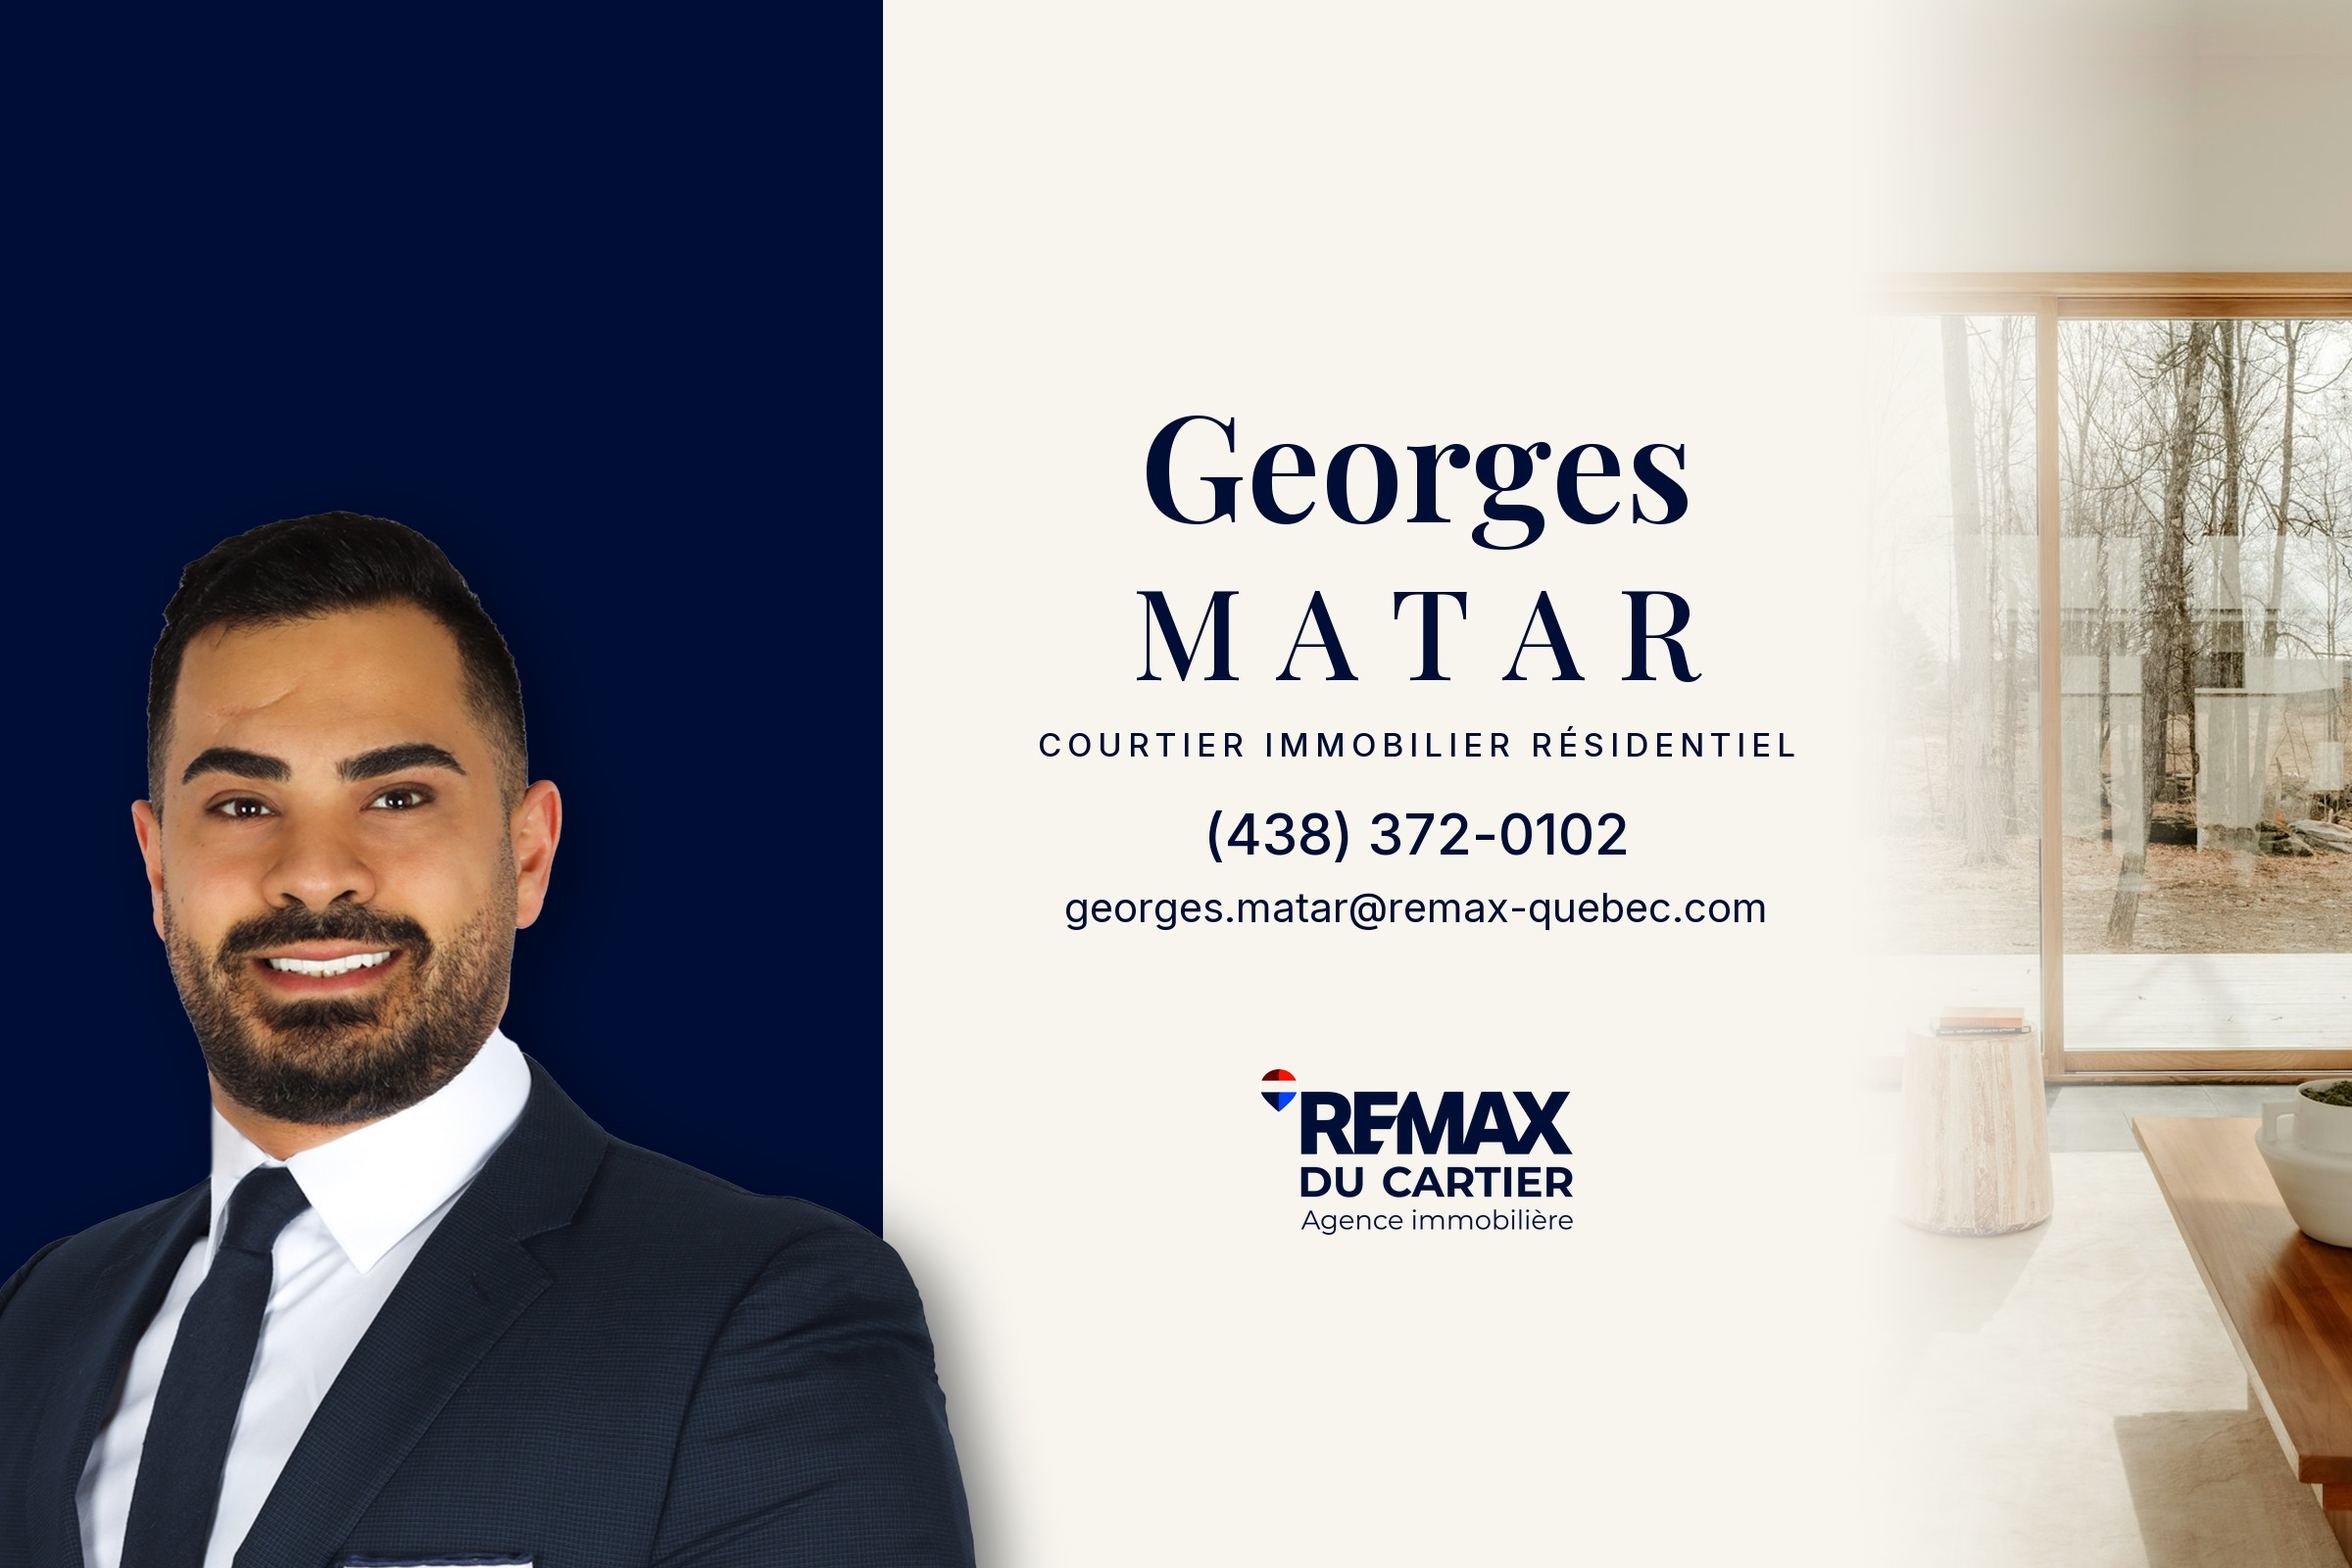
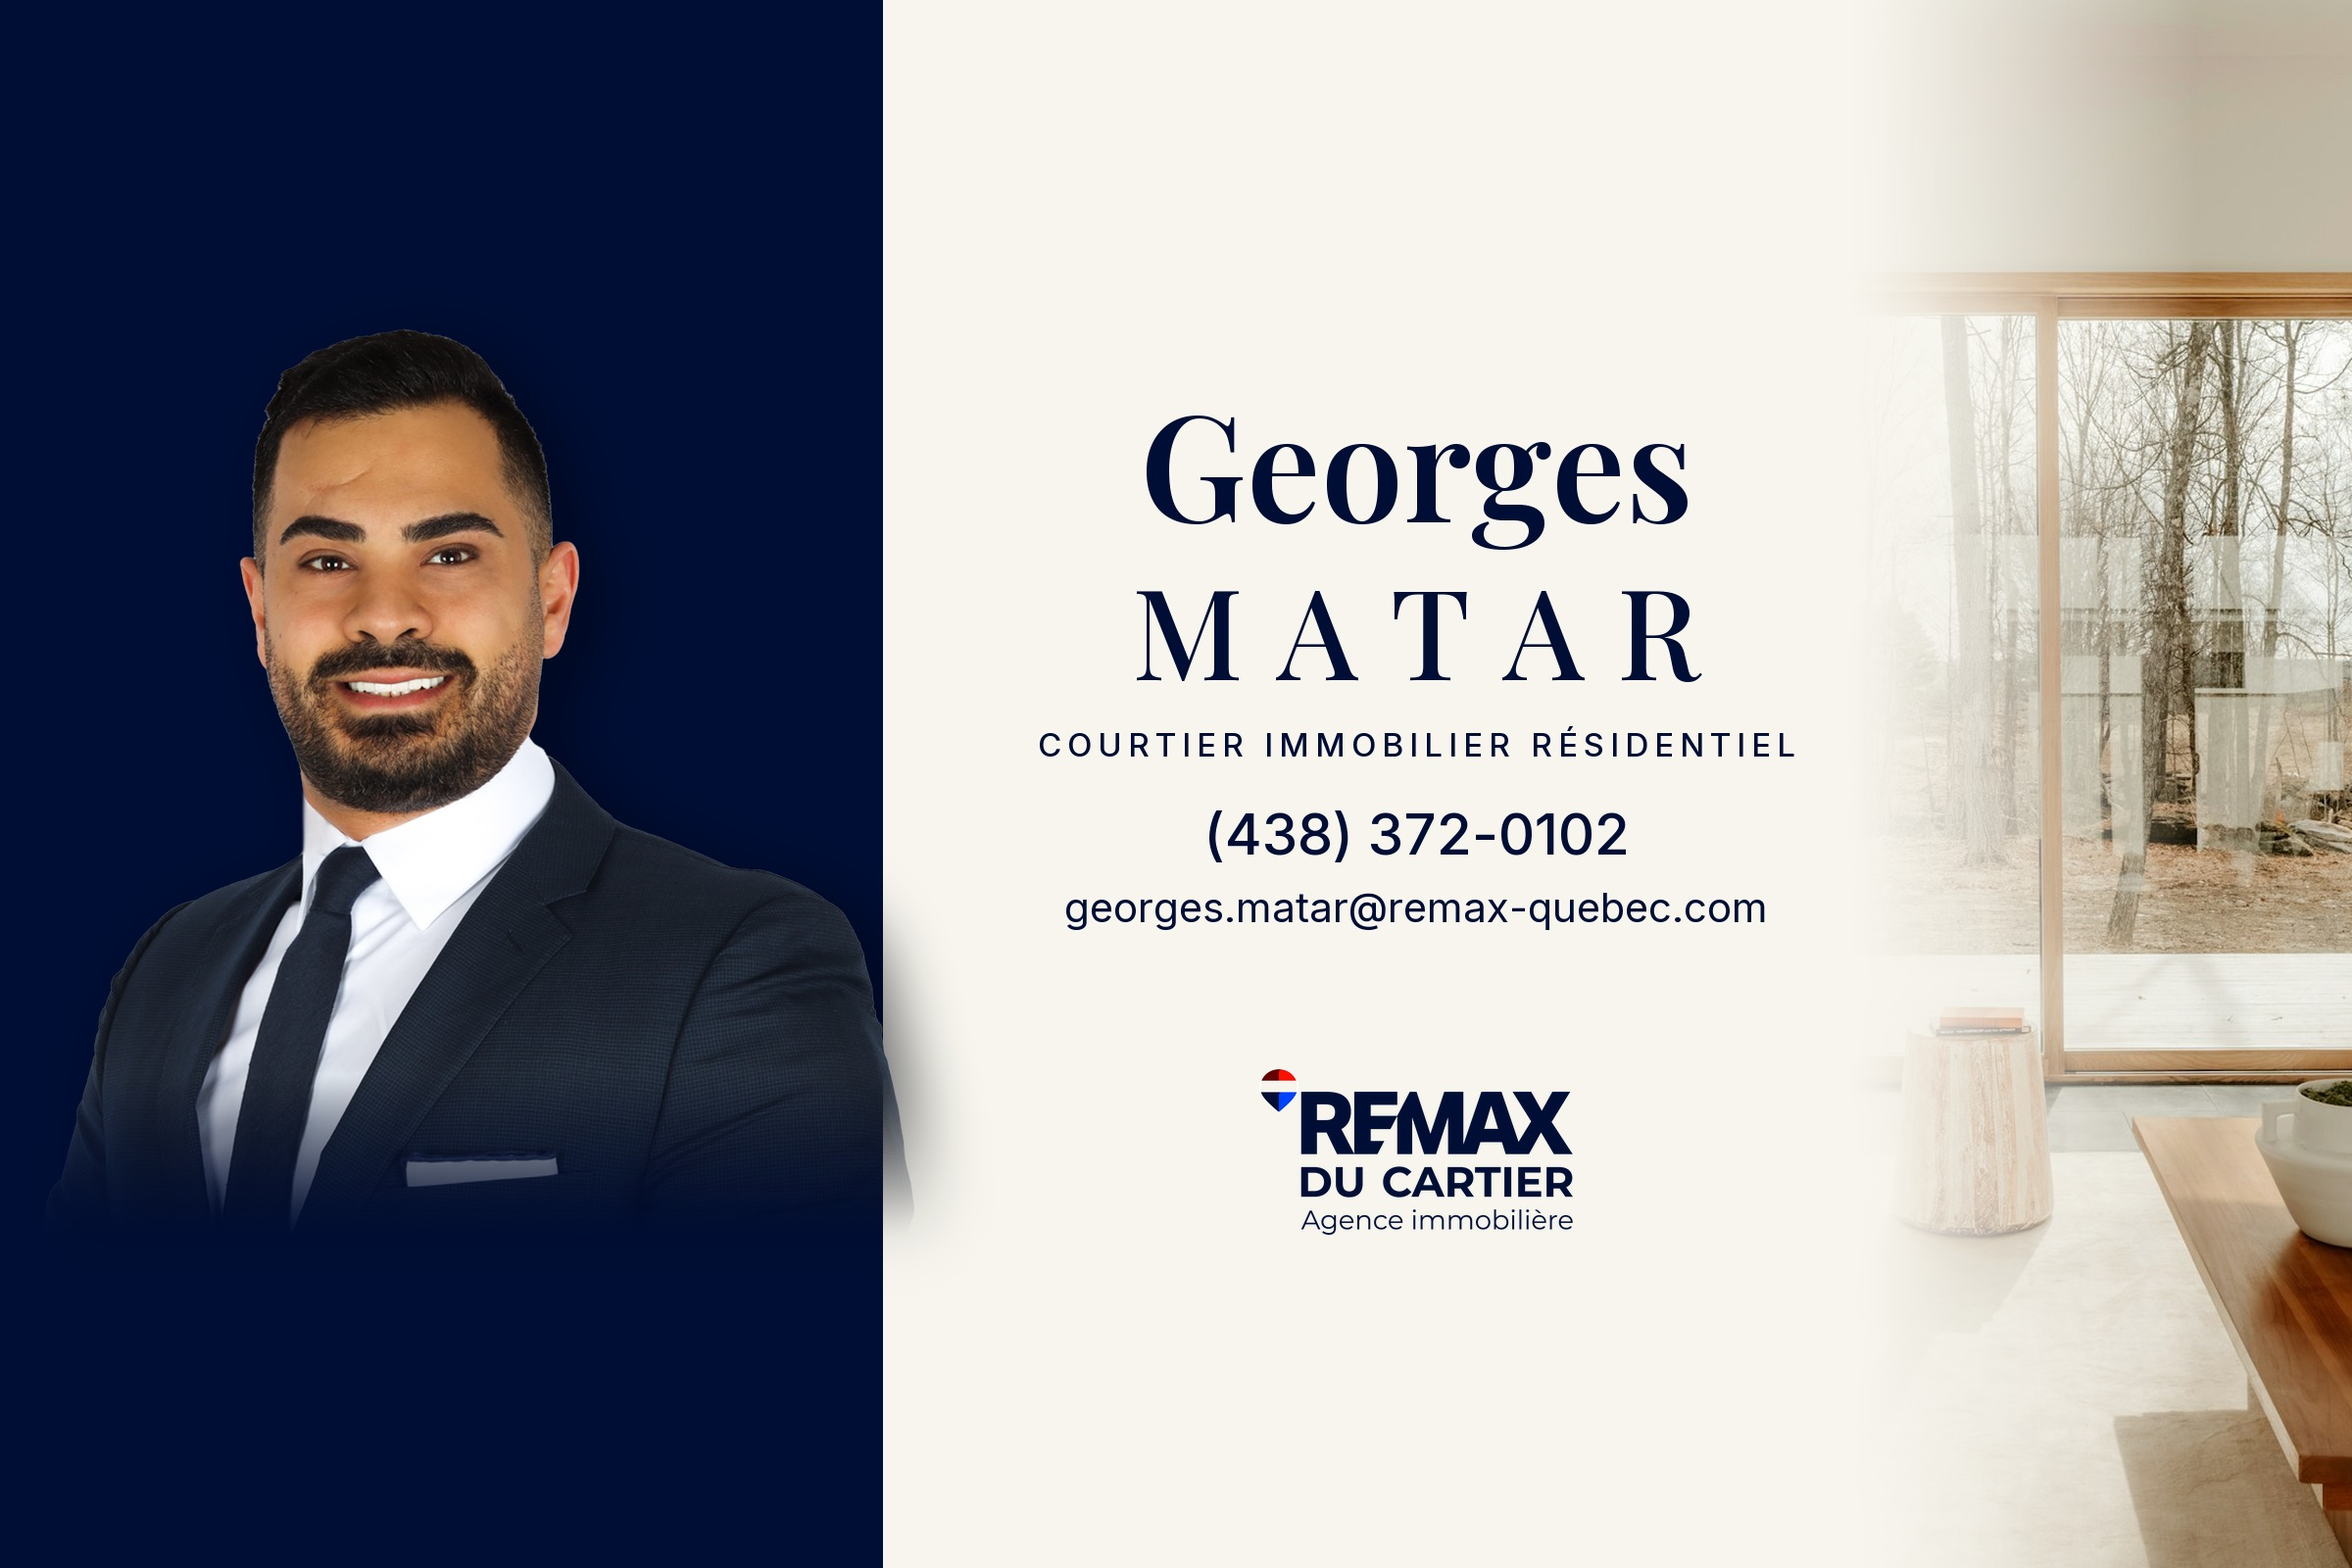
apple business: portrait entier dans la bande de Plans
Georges voulait se voir le plus possible dans le recadrage d Apple: le
portrait passe de la tete a la taille dans la bande que Plans garde, et
son bas se fond dans le navy pour l image complete de Wallet.

Changed region(s): [[0.0, 0.1875, 0.4375, 1.0]]

diff --git a/apple business profile/generer.py b/apple business profile/generer.py
@@ -137,14 +137,23 @@ def banniere(chemin, W=2400, H=1600):
     # Portrait detoure, pied en bas, tete dans la bande que Plans conserve.
     p = Image.open(os.path.join(HERE, "draft", "Georges Matar sans mains_sans arriere plan.png")).convert("RGBA")
     p = p.crop(p.getchannel("A").getbbox())
-    ph = H - 420
-    # Descendu de 100 px (demande de Georges, 2026-10-07): dans le recadrage
-    # d Apple, le haut de la tete touchait le bord. Le bas du complet sort du
-    # cadre, ce qui ne se voit pas.
-    py = H - ph + 100
+    # Portrait entier, de la tete a la taille, dans la bande que Plans garde
+    # (y de 320 a 1280), demande de Georges le 2026-10-07: il voulait se voir
+    # le plus possible dans le recadrage d Apple, pas seulement le visage.
+    # Le bas se fond dans le navy, pour que la coupe a la taille ne se voie
+    # pas dans l image complete que montre Wallet.
+    ph = 930
+    py = haut + 15
     pw = round(p.width * ph / p.height)
     p = p.resize((pw, ph), Image.LANCZOS)
-    x0 = px + 110 - pw  # le visage dans le panneau, l epaule droite deborde a peine
+    fondu_bas = 170
+    a = p.getchannel("A")
+    masque = Image.new("L", (1, ph), 255)
+    for y in range(ph - fondu_bas, ph):
+        masque.putpixel((0, y), int(255 * ((ph - y) / fondu_bas) ** 1.3))
+    from PIL import ImageChops
+    p.putalpha(ImageChops.multiply(a, masque.resize((pw, ph))))
+    x0 = round(px / 2 - pw / 2 + 40)  # centre dans le panneau navy
     ombre = Image.new("RGBA", (W, H), (0, 0, 0, 0))
     ombre.paste((0, 4, 18, 150), (x0 + 22, py + 18), p)
     from PIL import ImageFilter
